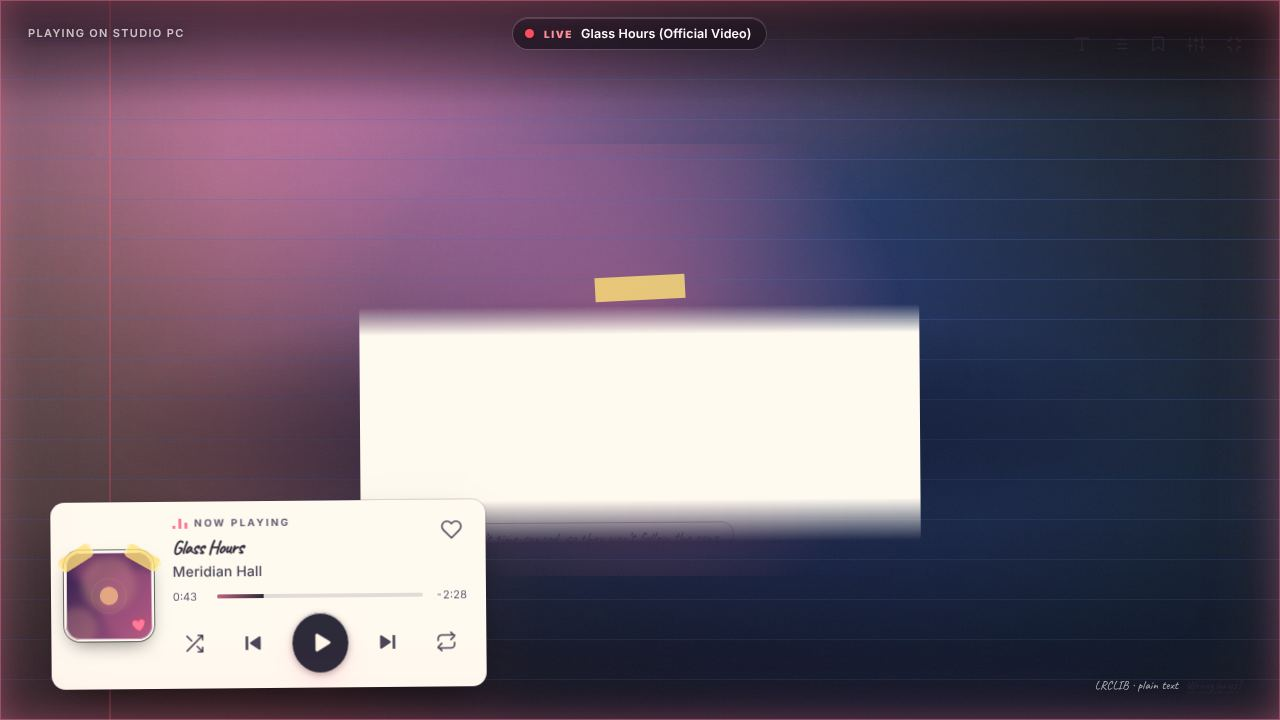
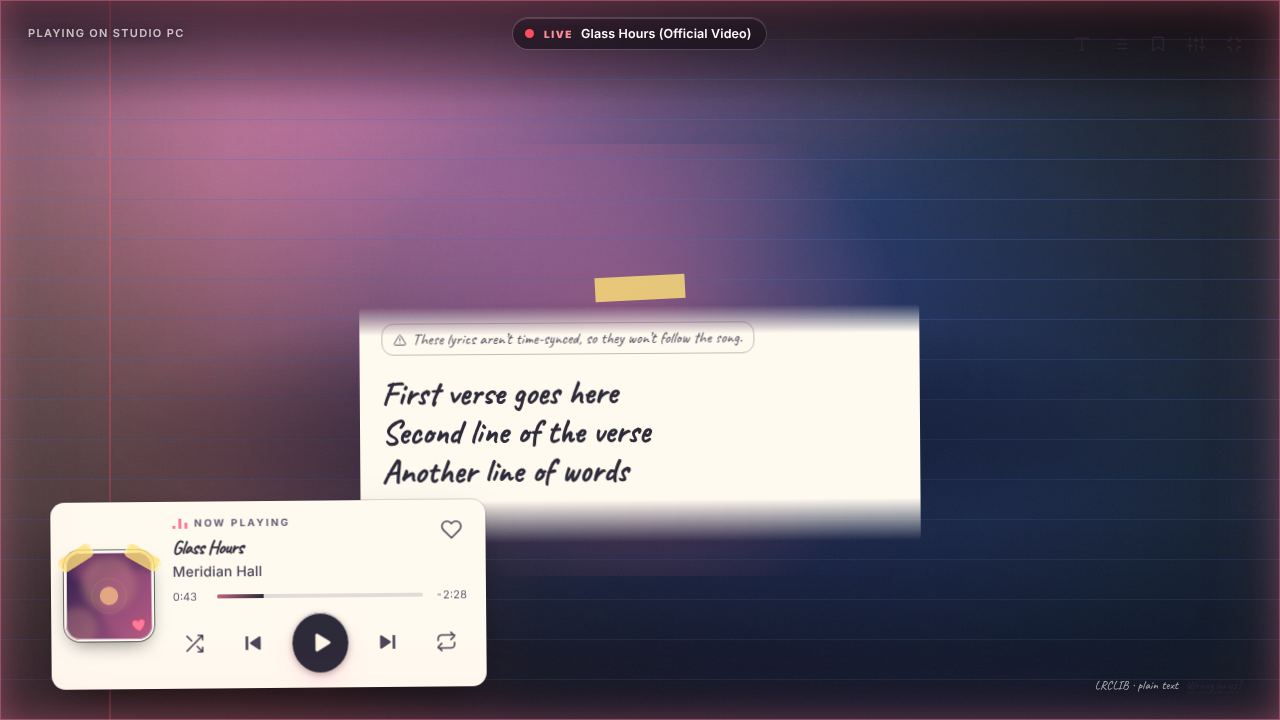
feat(website): redesigned site with 20-look showcase, state story, card and settings rails, gallery and release notes; real screenshots; fix unsynced note card padding over a video

Changed region(s): [[0.2812, 0.5194, 0.5312, 0.6722], [0.3125, 0.4583, 0.5938, 0.4889]]

diff --git a/src/renderer/src/styles/states.css b/src/renderer/src/styles/states.css
@@ -112,7 +112,7 @@
 :root[data-vibe='paper'] .full.is-cinema .full__side { background: #fffaf0; --fg: #2d2a3a; --fg-2: #4a4658; --fg-3: #625d73; border-radius: 14px; box-shadow: 0 18px 40px -16px rgba(0,0,0,.6), 0 0 0 1px rgba(45,42,58,.15); transform: rotate(-0.5deg); }
 :root[data-vibe='paper'][data-bg-media] .lyrics__scroller--plain, :root[data-vibe='paper'][data-bg-media] .lfb { background: #fffaf0; color: #2d2a3a; --fg: #2d2a3a; --fg-2: #4a4658; --fg-3: #625d73; border-radius: 4px; box-shadow: 0 16px 36px -14px rgba(0,0,0,.55); width: min(560px, 92%); margin: 18px auto; transform: rotate(-0.4deg); position: relative; }
 :root[data-vibe='paper'][data-bg-media] .lyrics__scroller--plain { flex: 0 1 auto; max-height: calc(100% - 36px); align-self: center; -webkit-mask-image: none; mask-image: none; container-type: normal; }
-:root[data-vibe='paper'][data-bg-media] .lyrics__inner--plain { padding: 16px 22px 20px; }
+:root[data-vibe='paper'][data-bg-media] .lyrics__inner--plain { padding: 16px 22px 20px !important; }
 :root[data-vibe='paper'][data-bg-media] .lfb { padding: 22px 26px 16px; max-width: 560px; }
 :root[data-vibe='paper'][data-bg-media] .lyrics__stage:has(.lyrics__scroller--plain)::before, :root[data-vibe='paper'][data-bg-media] .lfb::before { content: ''; position: absolute; top: -12px; left: 50%; width: 90px; height: 24px; margin-left: -45px; background: rgba(255,226,120,.8); transform: rotate(-3deg); }
 :root[data-vibe='paper'][data-bg-media] .lyrics__notice { background: transparent; border-color: rgba(45,42,58,.3); }
@@ -121,7 +121,7 @@
 :root[data-vibe='sketch'] .full.is-cinema .full__side { background: #fffaf0; --fg: #2d2a3a; --fg-2: #4a4658; --fg-3: #625d73; border-radius: 14px; box-shadow: 0 18px 40px -16px rgba(0,0,0,.6), 0 0 0 1px rgba(45,42,58,.15); transform: rotate(-0.5deg); }
 :root[data-vibe='sketch'][data-bg-media] .lyrics__scroller--plain, :root[data-vibe='sketch'][data-bg-media] .lfb { background: #fffaf0; color: #2d2a3a; --fg: #2d2a3a; --fg-2: #4a4658; --fg-3: #625d73; border-radius: 4px; box-shadow: 0 16px 36px -14px rgba(0,0,0,.55); width: min(560px, 92%); margin: 18px auto; transform: rotate(-0.4deg); position: relative; }
 :root[data-vibe='sketch'][data-bg-media] .lyrics__scroller--plain { flex: 0 1 auto; max-height: calc(100% - 36px); align-self: center; -webkit-mask-image: none; mask-image: none; container-type: normal; }
-:root[data-vibe='sketch'][data-bg-media] .lyrics__inner--plain { padding: 16px 22px 20px; }
+:root[data-vibe='sketch'][data-bg-media] .lyrics__inner--plain { padding: 16px 22px 20px !important; }
 :root[data-vibe='sketch'][data-bg-media] .lfb { padding: 22px 26px 16px; max-width: 560px; }
 :root[data-vibe='sketch'][data-bg-media] .lyrics__stage:has(.lyrics__scroller--plain)::before, :root[data-vibe='sketch'][data-bg-media] .lfb::before { content: ''; position: absolute; top: -12px; left: 50%; width: 90px; height: 24px; margin-left: -45px; background: rgba(255,226,120,.8); transform: rotate(-3deg); }
 :root[data-vibe='sketch'][data-bg-media] .lyrics__notice { background: transparent; border-color: rgba(45,42,58,.3); }
@@ -183,7 +183,7 @@
 :root[data-vibe='blocks'][data-bg-media] .backdrop__dim { background: rgba(0,0,0,.28); }
 [data-vibe='blocks'] .lyrics__notice { background: rgba(0,0,0,.65); border: 2px solid #000; border-radius: 0; color: #ffff55; font-family: 'VT323', monospace; font-size: 15px; text-shadow: 2px 2px 0 #3f3f3f; }
 /* unsynced words: the same black chat-log panel the song uses when it is synced, but nothing is "typed" live */
-[data-vibe='blocks'] .lyrics__inner--plain { background: rgba(0,0,0,.55); border: 2px solid #000; box-shadow: inset 0 0 0 2px rgba(255,255,255,.15); padding: 14px 18px 18px; margin: 6px 4px; }
+[data-vibe='blocks'] .lyrics__inner--plain { background: rgba(0,0,0,.55); border: 2px solid #000; box-shadow: inset 0 0 0 2px rgba(255,255,255,.15); padding: 14px 18px 18px !important; margin: 6px 4px; }
 [data-vibe='blocks'] .plain__stanza { font-family: 'VT323', monospace; font-weight: 400; letter-spacing: 0; color: #fff; text-shadow: 2px 2px 0 #3f3f3f; font-size: max(19px, calc(var(--lyric-size) * 0.8)); line-height: 1.25; }
 [data-vibe='blocks'] .plain__stanza > span::before { content: '> '; color: #55ffff; }
 [data-vibe='blocks'] .lfb { background: rgba(0,0,0,.6); border: 2px solid #000; box-shadow: inset 0 0 0 2px rgba(255,255,255,.15); padding: 18px 22px; margin: auto 4px; align-items: flex-start; --fg: #fff; --fg-2: #e8e8e8; --fg-3: #ccc; max-width: 560px; }
@@ -197,7 +197,7 @@
 :root[data-vibe='stadium'][data-bg-media] .backdrop__dim { background: rgba(2, 20, 10, .25); }
 [data-vibe='stadium'] .lyrics__notice { background: #e11d2e; border: 0; border-radius: 3px; color: #fff; font-weight: 800; letter-spacing: .1em; text-transform: uppercase; font-size: 10px; }
 /* unsynced words: the team sheet: a blue board with a gold edge, numbered rows, nothing live */
-[data-vibe='stadium'] .lyrics__inner--plain { max-width: 640px; counter-reset: row; background: linear-gradient(180deg, #0b3b86, #072a63); border-left: 6px solid #ffd23f; padding: 14px 20px 20px; margin: 6px 4px; box-shadow: 0 14px 34px -12px rgba(0,0,0,.6); }
+[data-vibe='stadium'] .lyrics__inner--plain { max-width: 640px; counter-reset: row; background: linear-gradient(180deg, #0b3b86, #072a63); border-left: 6px solid #ffd23f; padding: 14px 20px 20px !important; margin: 6px 4px; box-shadow: 0 14px 34px -12px rgba(0,0,0,.6); }
 [data-vibe='stadium'] .plain__stanza { font-family: 'Unbounded Variable', var(--font); text-transform: uppercase; font-weight: 800; letter-spacing: -0.02em; color: #fff; font-size: max(13px, calc(var(--lyric-size) * 0.42)); line-height: 1.6; }
 [data-vibe='stadium'] .plain__stanza > span { counter-increment: row; display: block; border-bottom: 1px solid rgba(255,255,255,.12); }
 [data-vibe='stadium'] .plain__stanza > span::before { content: counter(row, decimal-leading-zero); color: #ffd23f; margin-right: .9em; font-weight: 900; }
@@ -212,7 +212,7 @@
 :root[data-vibe='cassette'][data-bg-media] .backdrop__dim { background: rgba(42, 20, 6, .38); }
 /* unsynced words: the paper insert of the case, typed in ink, not moving */
 [data-vibe='cassette'] .lyrics__notice { background: #ecdcc0; border: 2px solid #2a1a0e; border-radius: 3px; color: #2a1a0e; font-family: 'VT323', monospace; font-size: 15px; text-transform: uppercase; letter-spacing: .06em; transform: rotate(-1deg); }
-[data-vibe='cassette'] .lyrics__inner--plain { background: linear-gradient(#f2e6cc, #e6d5b0); max-width: 560px; padding: 16px 22px 20px; margin: 8px 4px; box-shadow: 6px 8px 0 rgba(0,0,0,.35); border-radius: 3px; --fg: #2a1a0e; }
+[data-vibe='cassette'] .lyrics__inner--plain { background: linear-gradient(#f2e6cc, #e6d5b0); max-width: 560px; padding: 16px 22px 20px !important; margin: 8px 4px; box-shadow: 6px 8px 0 rgba(0,0,0,.35); border-radius: 3px; --fg: #2a1a0e; }
 [data-vibe='cassette'] .plain__stanza { font-family: 'VT323', monospace; font-weight: 400; letter-spacing: 0; color: #2a1a0e; font-size: max(19px, calc(var(--lyric-size) * 0.8)); line-height: 1.25; text-shadow: none; }
 [data-vibe='cassette'] .plain__stanza > span { border-bottom: 1px dotted rgba(42,26,14,.35); }
 /* no lyrics: the amber LCD of the deck says it plainly */
@@ -264,7 +264,7 @@
 :root[data-vibe='comic'] .full.is-cinema .full__side { background: #fffaf0; --fg: #2d2a3a; --fg-2: #4a4658; --fg-3: #625d73; border-radius: 14px; box-shadow: 0 18px 40px -16px rgba(0,0,0,.6), 0 0 0 1px rgba(45,42,58,.15); transform: rotate(-0.5deg); }
 :root[data-vibe='comic'][data-bg-media] .lyrics__scroller--plain, :root[data-vibe='comic'][data-bg-media] .lfb { background: #fffaf0; color: #2d2a3a; --fg: #2d2a3a; --fg-2: #4a4658; --fg-3: #625d73; border-radius: 4px; box-shadow: 0 16px 36px -14px rgba(0,0,0,.55); width: min(560px, 92%); margin: 18px auto; transform: rotate(-0.4deg); position: relative; }
 :root[data-vibe='comic'][data-bg-media] .lyrics__scroller--plain { flex: 0 1 auto; max-height: calc(100% - 36px); align-self: center; -webkit-mask-image: none; mask-image: none; container-type: normal; }
-:root[data-vibe='comic'][data-bg-media] .lyrics__inner--plain { padding: 16px 22px 20px; }
+:root[data-vibe='comic'][data-bg-media] .lyrics__inner--plain { padding: 16px 22px 20px !important; }
 :root[data-vibe='comic'][data-bg-media] .lfb { padding: 22px 26px 16px; max-width: 560px; }
 :root[data-vibe='comic'][data-bg-media] .lyrics__stage:has(.lyrics__scroller--plain)::before, :root[data-vibe='comic'][data-bg-media] .lfb::before { content: ''; position: absolute; top: -12px; left: 50%; width: 90px; height: 24px; margin-left: -45px; background: rgba(255,226,120,.8); transform: rotate(-3deg); }
 :root[data-vibe='comic'][data-bg-media] .lyrics__notice { background: transparent; border-color: rgba(45,42,58,.3); }

diff --git a/website/site.css b/website/site.css
@@ -61,7 +61,7 @@ em { font-style: normal; background: linear-gradient(100deg, var(--acc), var(--c
 
 /* ---------- type ---------- */
 h1, h2, h3 { margin: 0; font-family: var(--display); letter-spacing: -.045em; }
-h1 { font-size: clamp(46px, 10.4vw, 156px); line-height: .92; font-weight: 800; }
+h1 { font-size: clamp(42px, 7.4vw, 112px); line-height: .95; font-weight: 800; }
 h2 { font-size: clamp(34px, 6vw, 78px); line-height: 1; font-weight: 800; letter-spacing: -.05em; }
 h3 { font-size: 20px; letter-spacing: -.03em; margin-bottom: 8px; font-weight: 700; }
 .lead { max-width: 640px; color: var(--fg2); font-size: clamp(16px, 1.7vw, 21px); }
@@ -80,7 +80,7 @@ h3 { font-size: 20px; letter-spacing: -.03em; margin-bottom: 8px; font-weight: 7
 .reveal.in { opacity: 1; transform: none; }
 
 /* ---------- HERO ---------- */
-.hx { position: relative; min-height: 100svh; padding: 132px 24px 60px; display: grid; grid-template-rows: auto 1fr; justify-items: center; text-align: center; overflow: hidden; }
+.hx { position: relative; min-height: 100svh; padding: 118px 24px 110px; display: grid; grid-template-rows: auto 1fr; justify-items: center; text-align: center; overflow: hidden; }
 .hx__copy { display: grid; justify-items: center; gap: 26px; position: relative; z-index: 3; }
 .hx h1 .w { display: inline-block; color: rgba(246, 244, 251, .2); transition: color .4s, text-shadow .4s; }
 .hx h1 .w.on { color: #fff; text-shadow: 0 0 40px color-mix(in srgb, var(--acc) 70%, transparent); }
@@ -89,8 +89,8 @@ h3 { font-size: 20px; letter-spacing: -.03em; margin-bottom: 8px; font-weight: 7
 .hx__vibe { position: relative; display: inline-flex; align-items: center; gap: 10px; padding: 7px 8px 7px 14px; border-radius: 999px; border: 1px solid color-mix(in srgb, var(--acc) 50%, var(--line)); background: color-mix(in srgb, var(--acc) 12%, rgba(255, 255, 255, .03)); font-size: 13px; }
 .hx__vibe b { font-family: var(--display); font-weight: 700; letter-spacing: -.02em; }
 .hx__vibe button { all: unset; cursor: pointer; padding: 5px 12px; border-radius: 999px; background: var(--acc); color: #120a14; font-weight: 700; font-size: 12px; }
-.hx__stage { position: relative; width: min(1180px, 100%); margin-top: 56px; perspective: 1800px; align-self: start; }
-.dev { position: relative; border-radius: 18px; overflow: hidden; border: 1px solid rgba(255, 255, 255, .16); background: #000; box-shadow: 0 80px 160px -50px color-mix(in srgb, var(--acc) 55%, #000), 0 0 0 1px rgba(255, 255, 255, .04); transition: transform .5s var(--ease); will-change: transform; }
+.hx__stage { position: relative; width: min(1180px, 100%); margin-top: 44px; padding-bottom: 60px; perspective: 1800px; align-self: start; }
+.dev { z-index: 3; position: relative; border-radius: 18px; overflow: hidden; border: 1px solid rgba(255, 255, 255, .16); background: #000; box-shadow: 0 80px 160px -50px color-mix(in srgb, var(--acc) 55%, #000), 0 0 0 1px rgba(255, 255, 255, .04); transition: transform .5s var(--ease); will-change: transform; }
 .dev img { display: block; width: 100%; height: auto; transition: opacity .6s; }
 .dev--win { width: min(900px, 78%); margin: 0 auto; border-radius: 14px; }
 .dev--win::before { content: ''; display: block; height: 28px; background: linear-gradient(#1b1a22, #14131a); border-bottom: 1px solid var(--line); }
@@ -104,7 +104,7 @@ h3 { font-size: 20px; letter-spacing: -.03em; margin-bottom: 8px; font-weight: 7
 .chip-float--a { right: 1%; top: 6%; rotate: 6deg; }
 .chip-float--b { left: 0; top: 30%; rotate: -7deg; animation-delay: -3s; }
 @keyframes fl { 50% { translate: 0 -14px; } }
-.hx__glow { position: absolute; inset: auto 0 0 0; height: 42%; background: linear-gradient(180deg, transparent, var(--bg)); z-index: 2; pointer-events: none; }
+.hx__glow { position: absolute; inset: auto 0 0 0; height: 16%; background: linear-gradient(180deg, transparent, var(--bg)); z-index: 1; pointer-events: none; }
 
 /* ---------- ticker ---------- */
 .tick { margin-top: clamp(70px, 10vw, 130px); overflow: hidden; border-block: 1px solid var(--line); padding: 22px 0; -webkit-mask-image: linear-gradient(90deg, transparent, #000 10%, #000 90%, transparent); mask-image: linear-gradient(90deg, transparent, #000 10%, #000 90%, transparent); }
